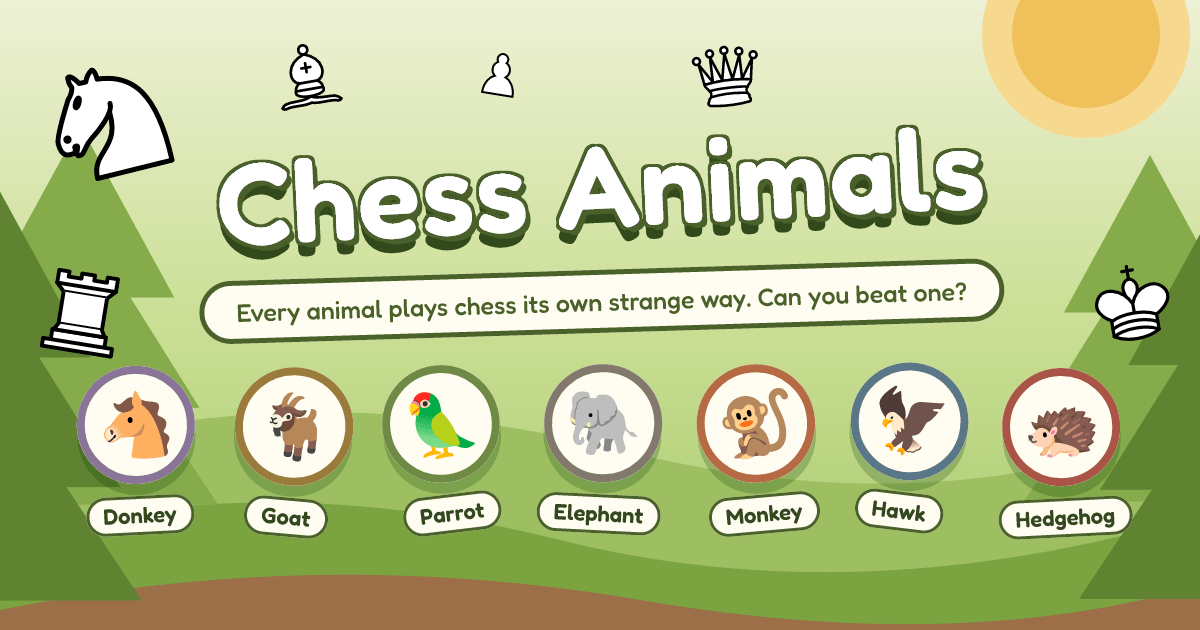
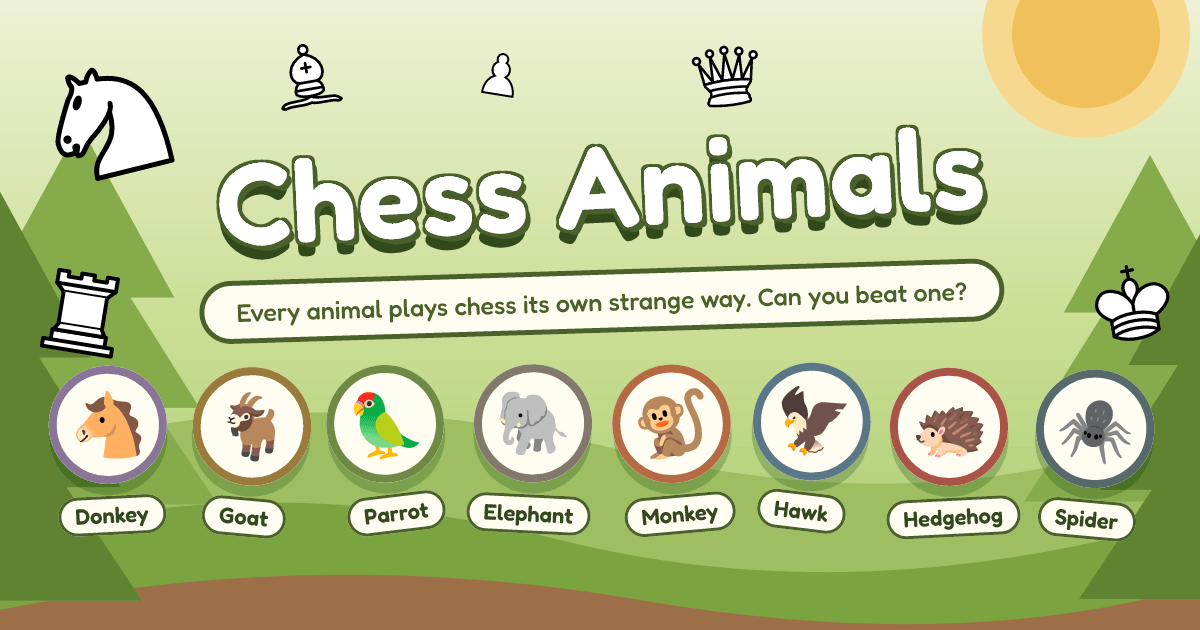
bots: add the Spider, a mobility maximiser

Changed region(s): [[0.0308, 0.573, 0.9867, 0.8746]]

diff --git a/src/modules/bots/roster/index.ts b/src/modules/bots/roster/index.ts
@@ -5,6 +5,7 @@ import { HAWK } from "./hawk";
 import { HEDGEHOG } from "./hedgehog";
 import { MONKEY } from "./monkey";
 import { PARROT } from "./parrot";
+import { SPIDER } from "./spider";
 import type { Animal } from "./types";
 
 // The roster, weakest first: the order is the one `npm run arena` measured, not one anybody
@@ -15,10 +16,11 @@ import type { Animal } from "./types";
 // to answer one question about the animals around it — is a blunder the animal's one idea, or
 // just what any weights do at this depth? The Hawk sits just above it: the same material, aimed
 // at the enemy king. The Hedgehog above them both is the counterexample — the Monkey plus a
-// single safety instinct, worth more than material or an attack alone.
+// single safety instinct, worth more than material or an attack alone. The Spider tops the
+// table: the same material again, plus giving every piece the most squares it can have.
 //
 // Every animal reads a feature no other one does, so the roster is a tour of the registry.
-export const ROSTER: Animal[] = [DONKEY, GOAT, PARROT, ELEPHANT, MONKEY, HAWK, HEDGEHOG];
+export const ROSTER: Animal[] = [DONKEY, GOAT, PARROT, ELEPHANT, MONKEY, HAWK, HEDGEHOG, SPIDER];
 
 export const ROSTER_BY_ID = new Map(ROSTER.map((animal) => [animal.definition.id, animal]));
 

diff --git a/src/modules/bots/roster/spider.ts b/src/modules/bots/roster/spider.ts
@@ -1,0 +1,21 @@
+import type { Animal } from "./types";
+
+// The Monkey plus one instinct: give every piece as many squares as it can have. `mobility` is
+// our reachable squares minus theirs — pawns and the king aside — so a positive weight pays the
+// Spider to develop onto open lines, keep its pieces untangled and deny the same to the
+// opponent, all without ever declining a real capture the material base wants.
+//
+// On `material` at 10 a square of activity is worth a tenth of a pawn: the arena rates the whole
+// 6–15 range flat and above the Hedgehog, so 10 is the round middle of a plateau, not a peak.
+// Depth 2, temp 0. No other animal reads mobility.
+export const SPIDER: Animal = {
+	emoji: "🕷",
+	tint: "#566a6b",
+	definition: {
+		id: "spider",
+		search: { depth: 2 },
+		temperature: 0,
+		base: "material",
+		weights: { mobility: 10 },
+	},
+};

diff --git a/src/locales/ru/bots.ts b/src/locales/ru/bots.ts
@@ -31,4 +31,8 @@ export default {
 		description:
 			"Находит твоего короля и больше не отводит глаз. А потом все бросаются на него.",
 	},
+	spider: {
+		name: "Паук",
+		description: "Восемь лап — и каждая тянется к новой клетке.",
+	},
 };

diff --git a/src/locales/en/bots.ts b/src/locales/en/bots.ts
@@ -30,4 +30,8 @@ export default {
 		name: "Hawk",
 		description: "Finds your king and never looks away. Then everyone dives at it.",
 	},
+	spider: {
+		name: "Spider",
+		description: "Eight legs, and every one reaches for a new square.",
+	},
 };
